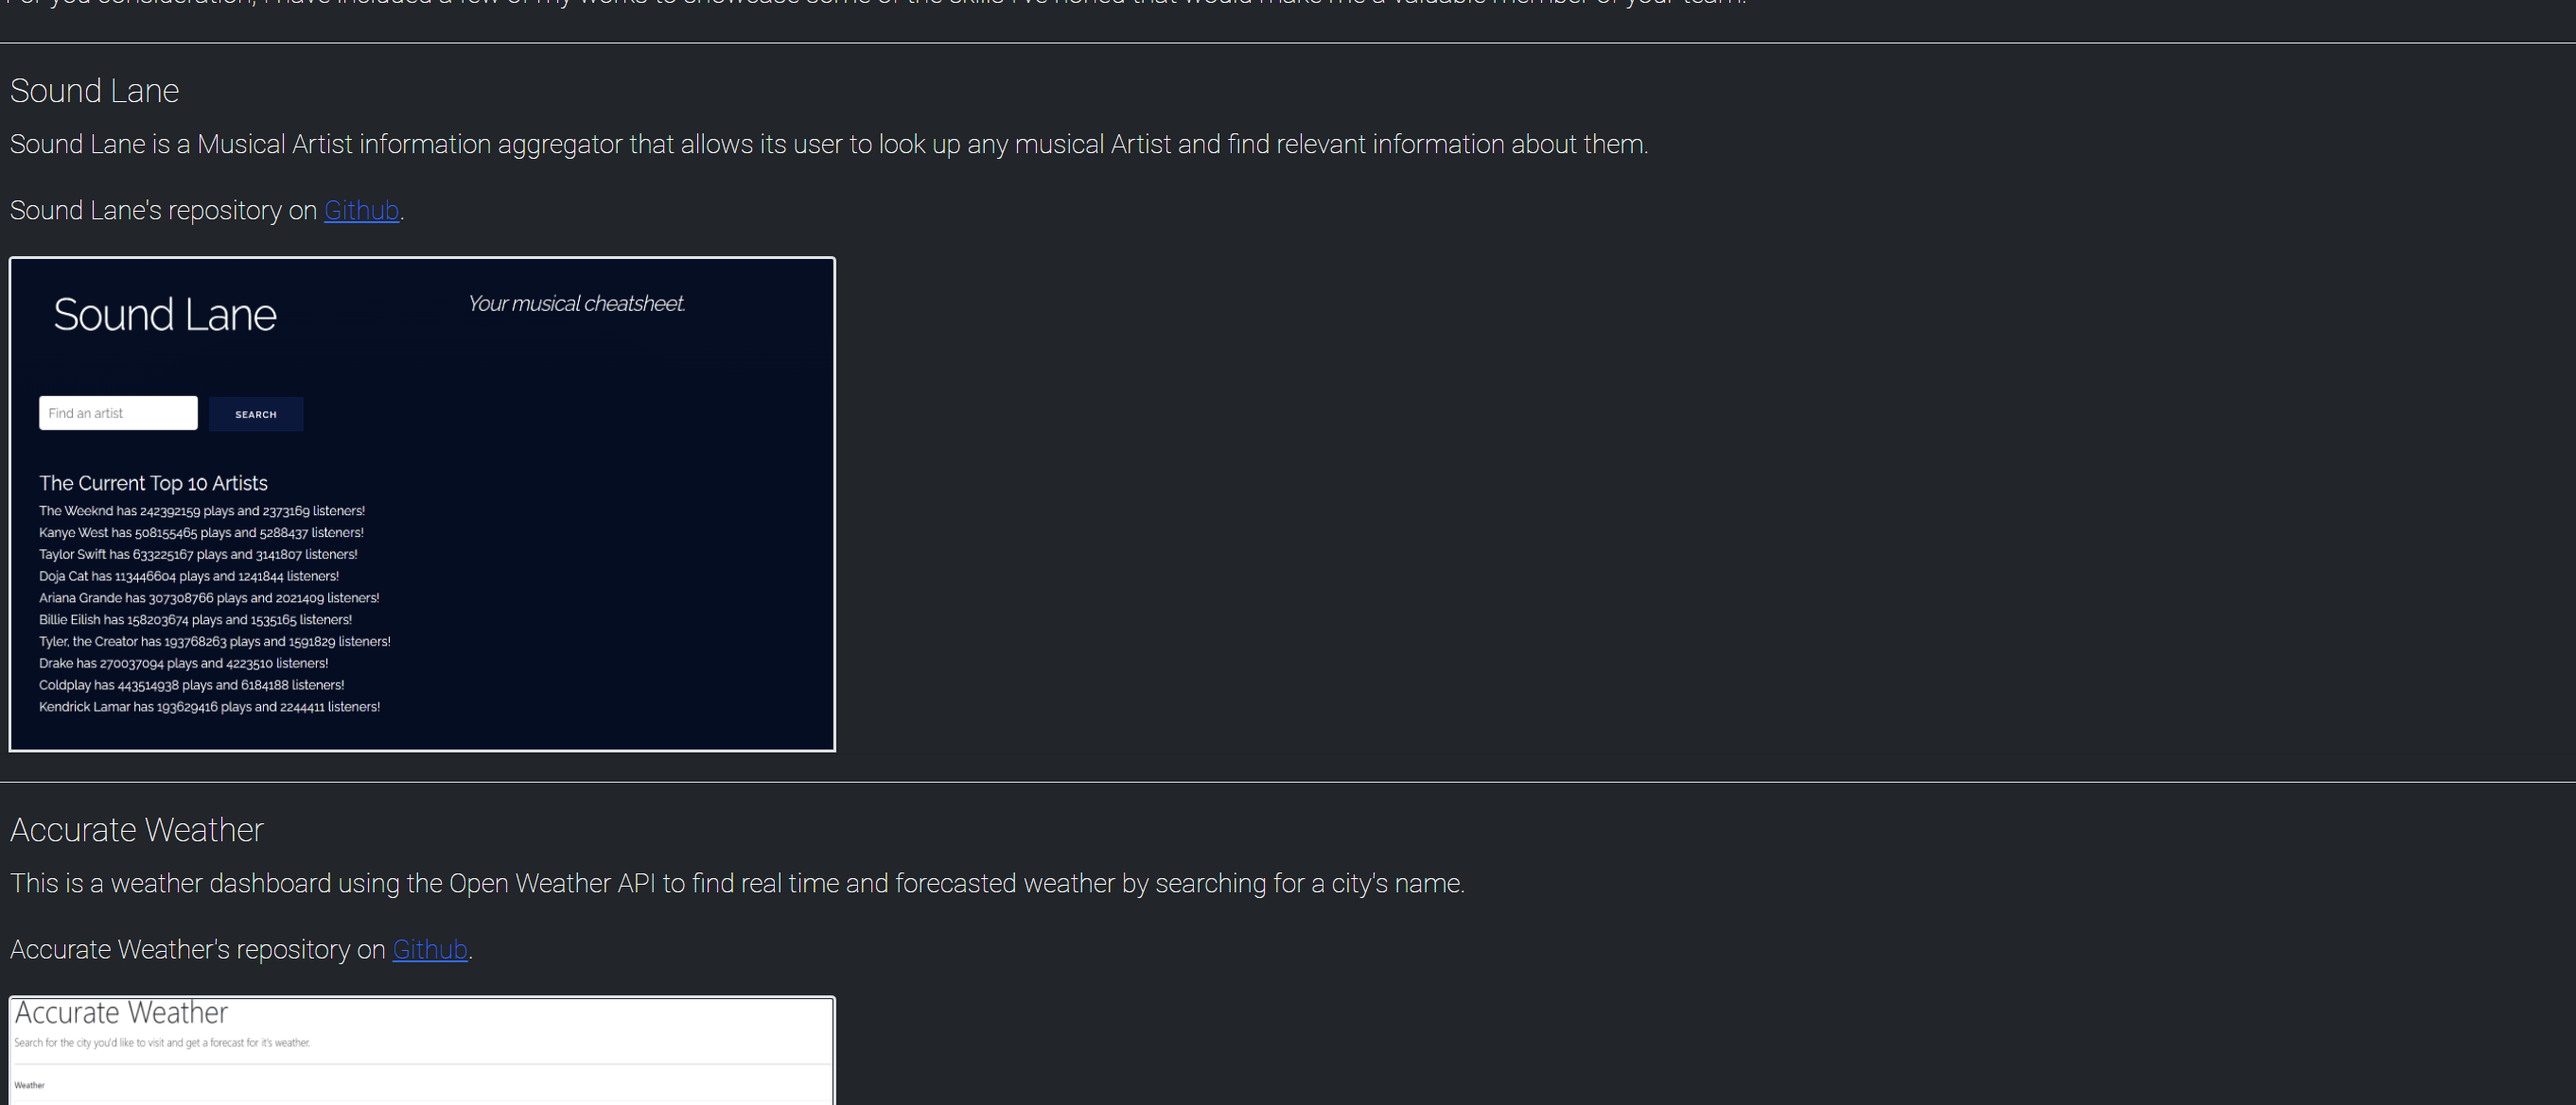
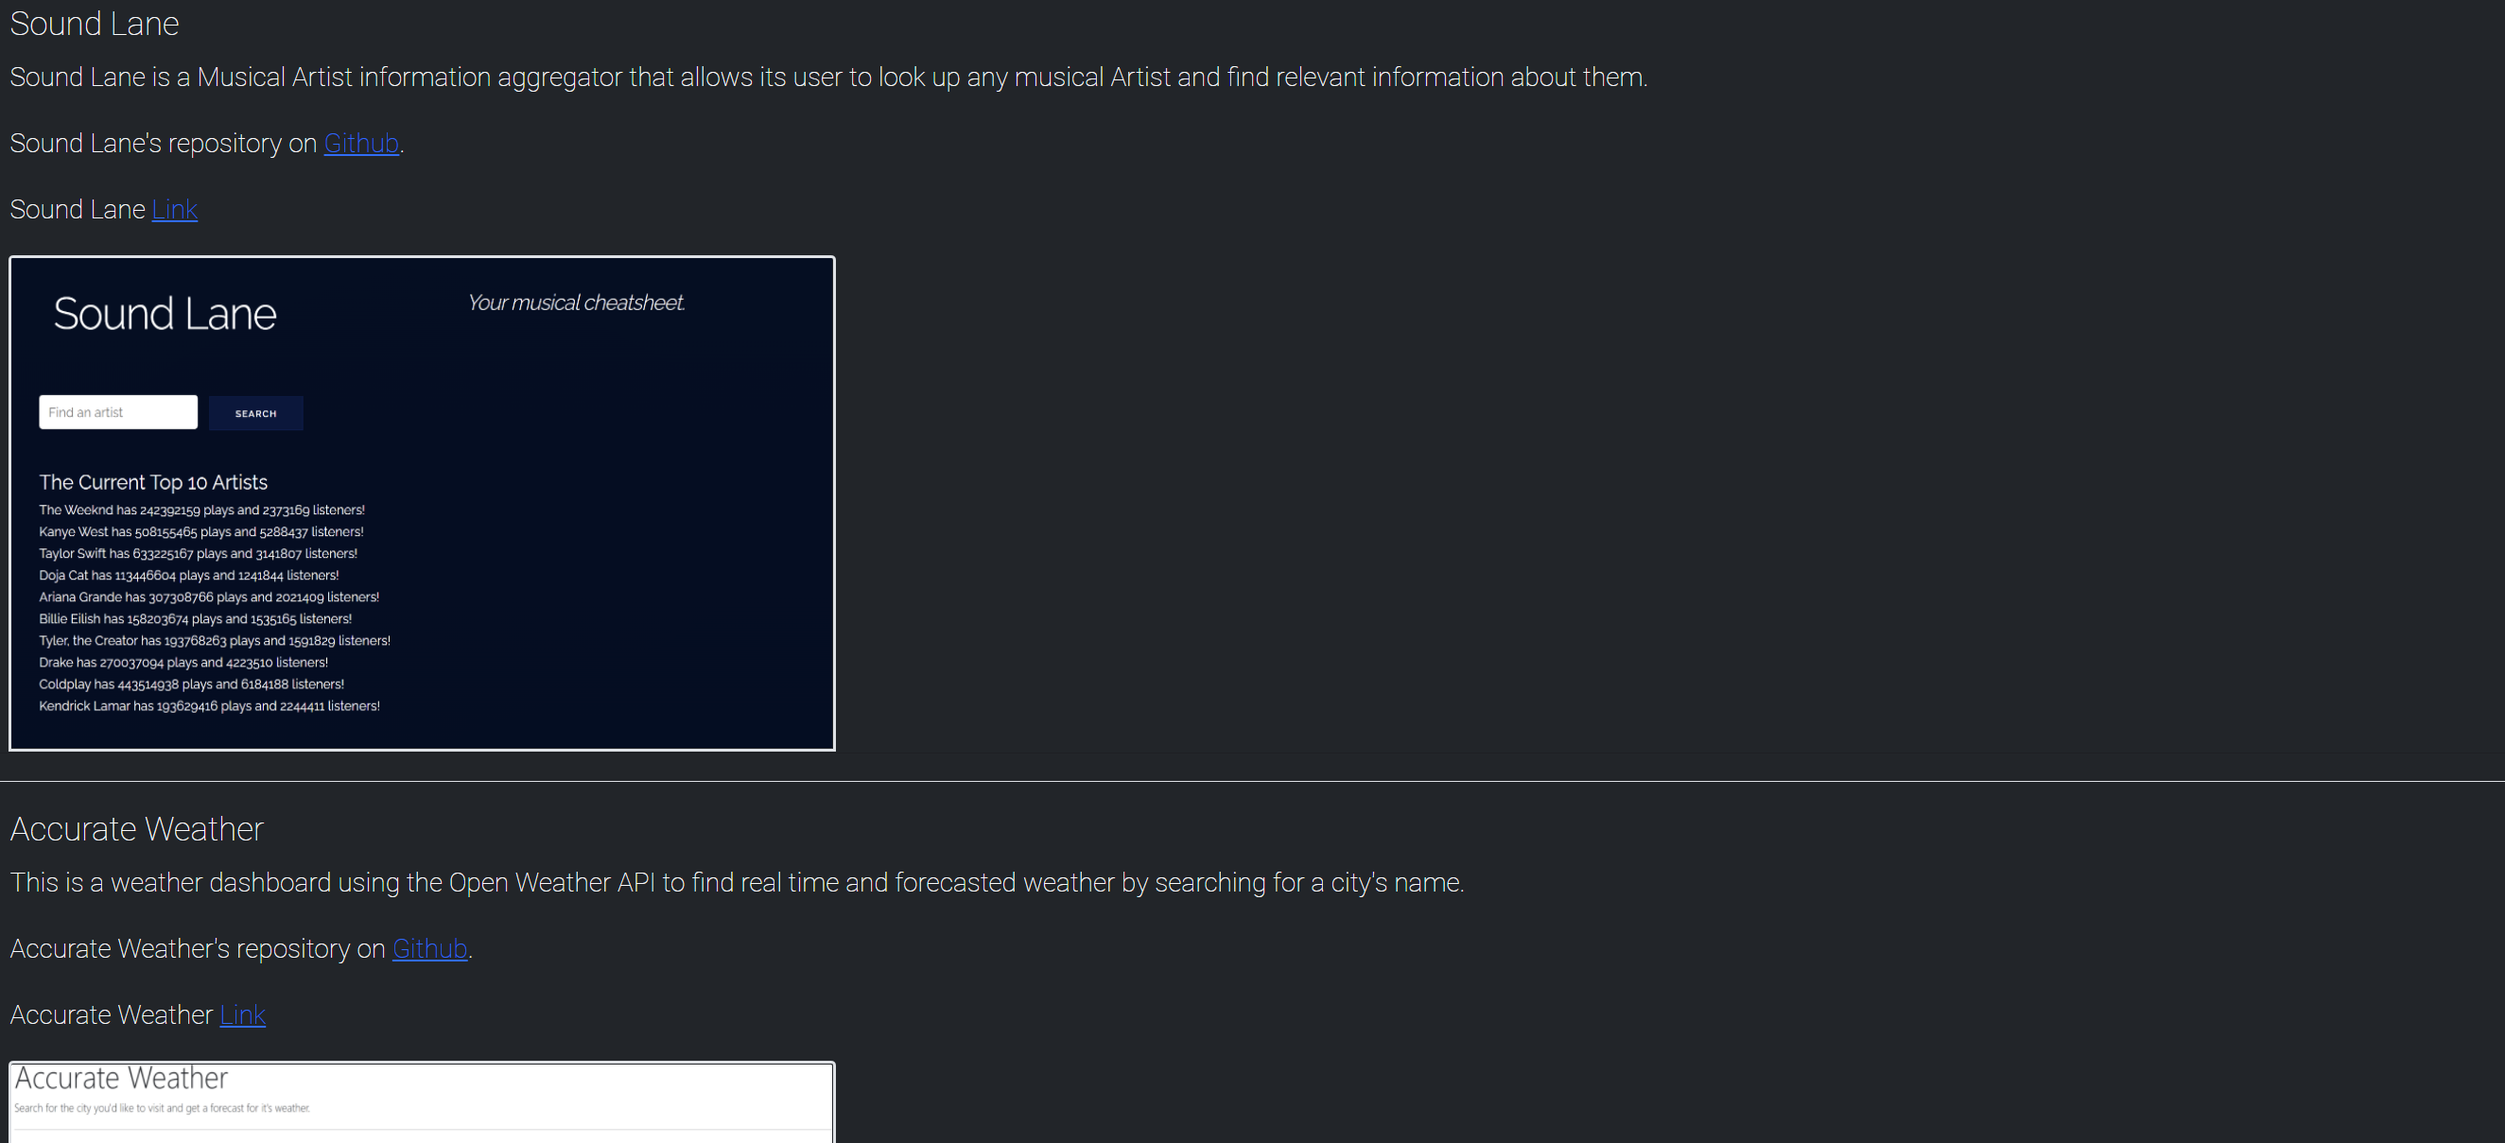
added links to deployed site for projects, replaced reademe image to show deployed link

Changed region(s): [[0.0, 0.1232, 0.6501, 1.0], [0.0, 0.0616, 0.6501, 0.0924], [0.0, 0.0, 0.0929, 0.0308]]

diff --git a/index.html b/index.html
@@ -56,6 +56,7 @@
                   <h5 class="card-title">Sound Lane</h5>
                   <p class="card-text">Sound Lane is a Musical Artist information aggregator that allows its user to look up any musical Artist and find relevant information about them.</p>
                   <p class="card-text">Sound Lane's repository on <a href="https://github.com/MChambersIV/Sound-Lane">Github</a>.</p>
+                  <p class="card-text">Sound Lane  <a href="https://samuellutz.github.io/Sound-Lane/">Link</a></p>
                 </div>
                 <img src="./images/p1.png" class="card-img-top border border-2" alt="Image of Landscape" style="width:500px;height:300px;">
             </div>
@@ -65,6 +66,7 @@
                     <h5 class="card-title">Accurate Weather</h5>
                     <p class="card-text">This is a weather dashboard using the Open Weather API to find real time and forecasted weather by searching for a city's name.</p>
                     <p class="card-text">Accurate Weather's repository on <a href="https://github.com/MChambersIV/weather-dashboard">Github</a>.</p>
+                    <p class="card-text">Accurate Weather  <a href="https://mchambersiv.github.io/weather-dashboard/">Link</a></p>
                 </div>
                 <img src="./images/p2.png" class="card-img-top border border-2" alt="Image of Landscape" style="width:500px;height:300px;">
             </div>
@@ -74,6 +76,7 @@
                     <h5 class="card-title">Work Day Scheduler</h5>
                     <p class="card-text">This is a day planner, it allows the user to enter task to a form with a corresponding time of day and then save it. Once, saved  the task will persist upon page reload.</p>
                     <p class="card-text">Work Day Scheduler's repository on <a href="https://github.com/MChambersIV/daily-planner-mc">Github</a>.</p>
+                    <p class="card-text">Work Day Scheduler <a href="https://mchambersiv.github.io/daily-planner-mc/">Link</a></p>
               </div>
               <img src="./images/p3.png" class="card-img-top border border-2" alt="Image of Landscape" style="width:500px;height:300px;">
                 
